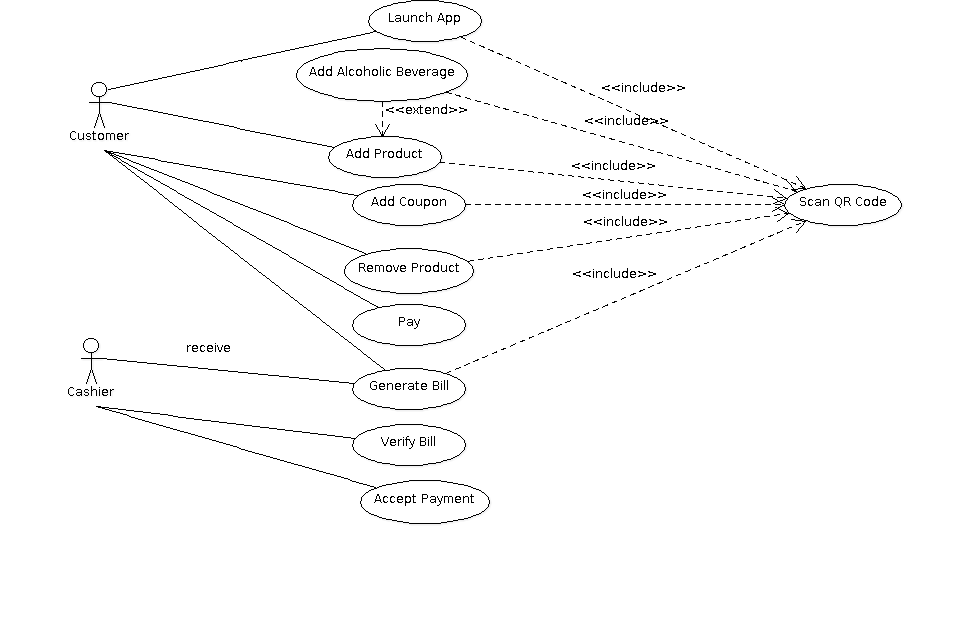
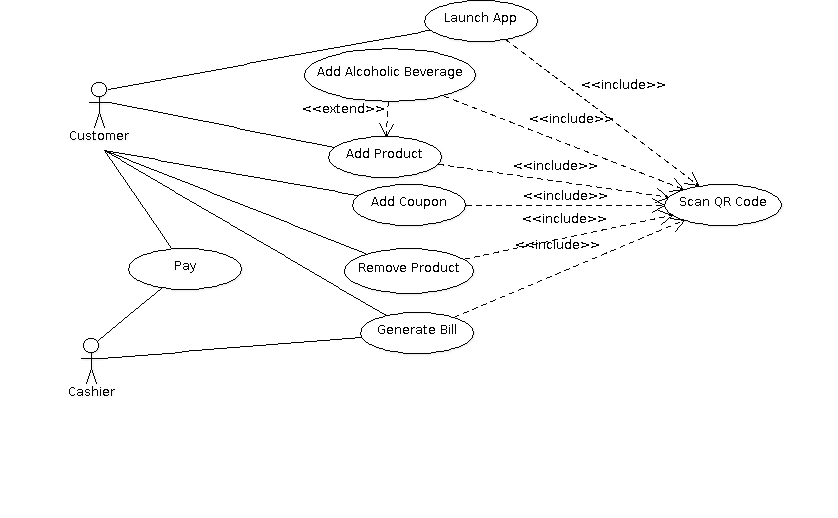
v 0.2 of Use Case Diagram

diff --git a/Assignment6/UseCaseModel.md b/Assignment6/UseCaseModel.md
@@ -261,7 +261,7 @@
 
 	1.5 The cashier scans the QR Code displayed on the phone with the POS System scanner.
 
-	1.6 The POS System decoes the QR Code and displays all of the customer's information, the list of products (to include special taxes), the list of coupons, and the total value of the cart on the POS System Display screen.
+	1.6 The POS System decodes the QR Code and displays all of the customer's information, the list of products (to include special taxes), the list of coupons, and the total value of the cart on the POS System Display screen.
 
 	1.7 The cashier hands the phone back to the customer.
 
@@ -278,5 +278,36 @@
 	2.4 The customer selects the "X" on the error message to acknowledge and close the error message.
 
 	2.5 The application enters the grocery shopping mode screen and the QR Code Scanner closes.
+
+###6. Pay
+   * **Requirements:** The Pay use case must allow the cashier to verify the accuracy of the bill by pressing the "verify" button, the customer to select a payment method by choosing "Cash", "Credit" or "Debit" and communicating it their selection verbally to the cashier (who selects the correct button on the POS System, the customer to hand the payment medium (cash or card) to the cashier, process the payment,
+
+   * **Pre-conditions:** The EZ Shop Application is in grocery shopping mode and the customer has at least one product in their shopping cart in the application.
+
+   * **Post-Conditions:** The EZ Shop app has produced and displayed a customer QR Code that encodes all customer shopping cart information,   the cashier has scanned the code and decoded the information on the POS System, and the POS System displays all of the information encoded in the QR Code.
+
+   * **Scenarios:** 
+
+      **1. Normal Scenario: Credit Card and Contents Match**
+
+	1.1 The cashier visually verifies that the contents in the cart match the bill displayed on the POS System.
+
+	1.2 If the cashier determines the contents match then the cashier toches the "Verify" button on the POS System.
+
+	1.3 The POS System asks the cashier to select the payment method by displaying options of: "Cash" or "Credit".
+
+	1.4 The cashier asks the customer how they want to pay.
+
+	1.5 The customer responds with credit.
+
+	1.6 The customer hands their credit card to the cashier.
+
+	1.7 The cashier swipes the credit card.
+
+	1.8 The cashier asks the customer to sign the signature pad that is connected to the POS System.
+
+	1.9 The customer signs on the signature pad.
+
+	1.10 
 
 
